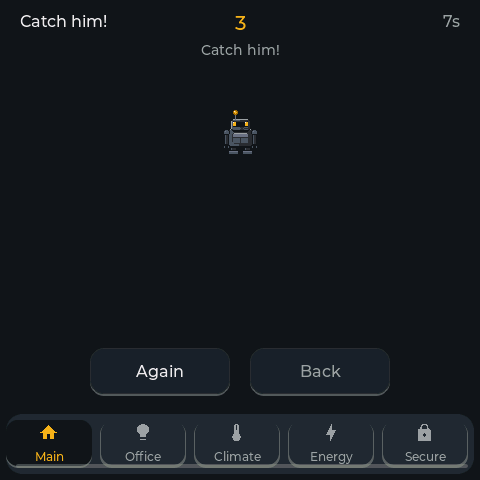
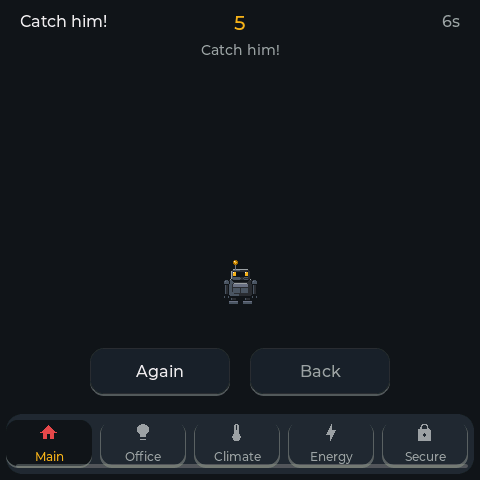
docs: add sessions + Claude control-page stills; better Catch shot

diff --git a/README.md b/README.md
@@ -81,6 +81,8 @@ repo build up to:
 | **Office** — lights, scenes, blinds, TV, media transport | **Teams** — the page that got the screen out of the drawer: mic, camera, share, hand, leave |
 | ![TV remote](docs/media/remote.png) | ![TV apps](docs/media/apps.png) |
 | A sub-page done plainly: a D-pad remote off the Office page | The app launcher, another sub-page — names, not reverse-DNS ids |
+| ![AI sessions list](docs/media/sessions.png) | ![Claude control page](docs/media/claude.png) |
+| **Sessions** — every AI session on the box, paged, tagged NEW/RUN | **Claude's page** — model picker, quick actions, and a token footer; `--` means no window is open, and the page says so instead of guessing |
 
 What is here is the part that transfers:
 
